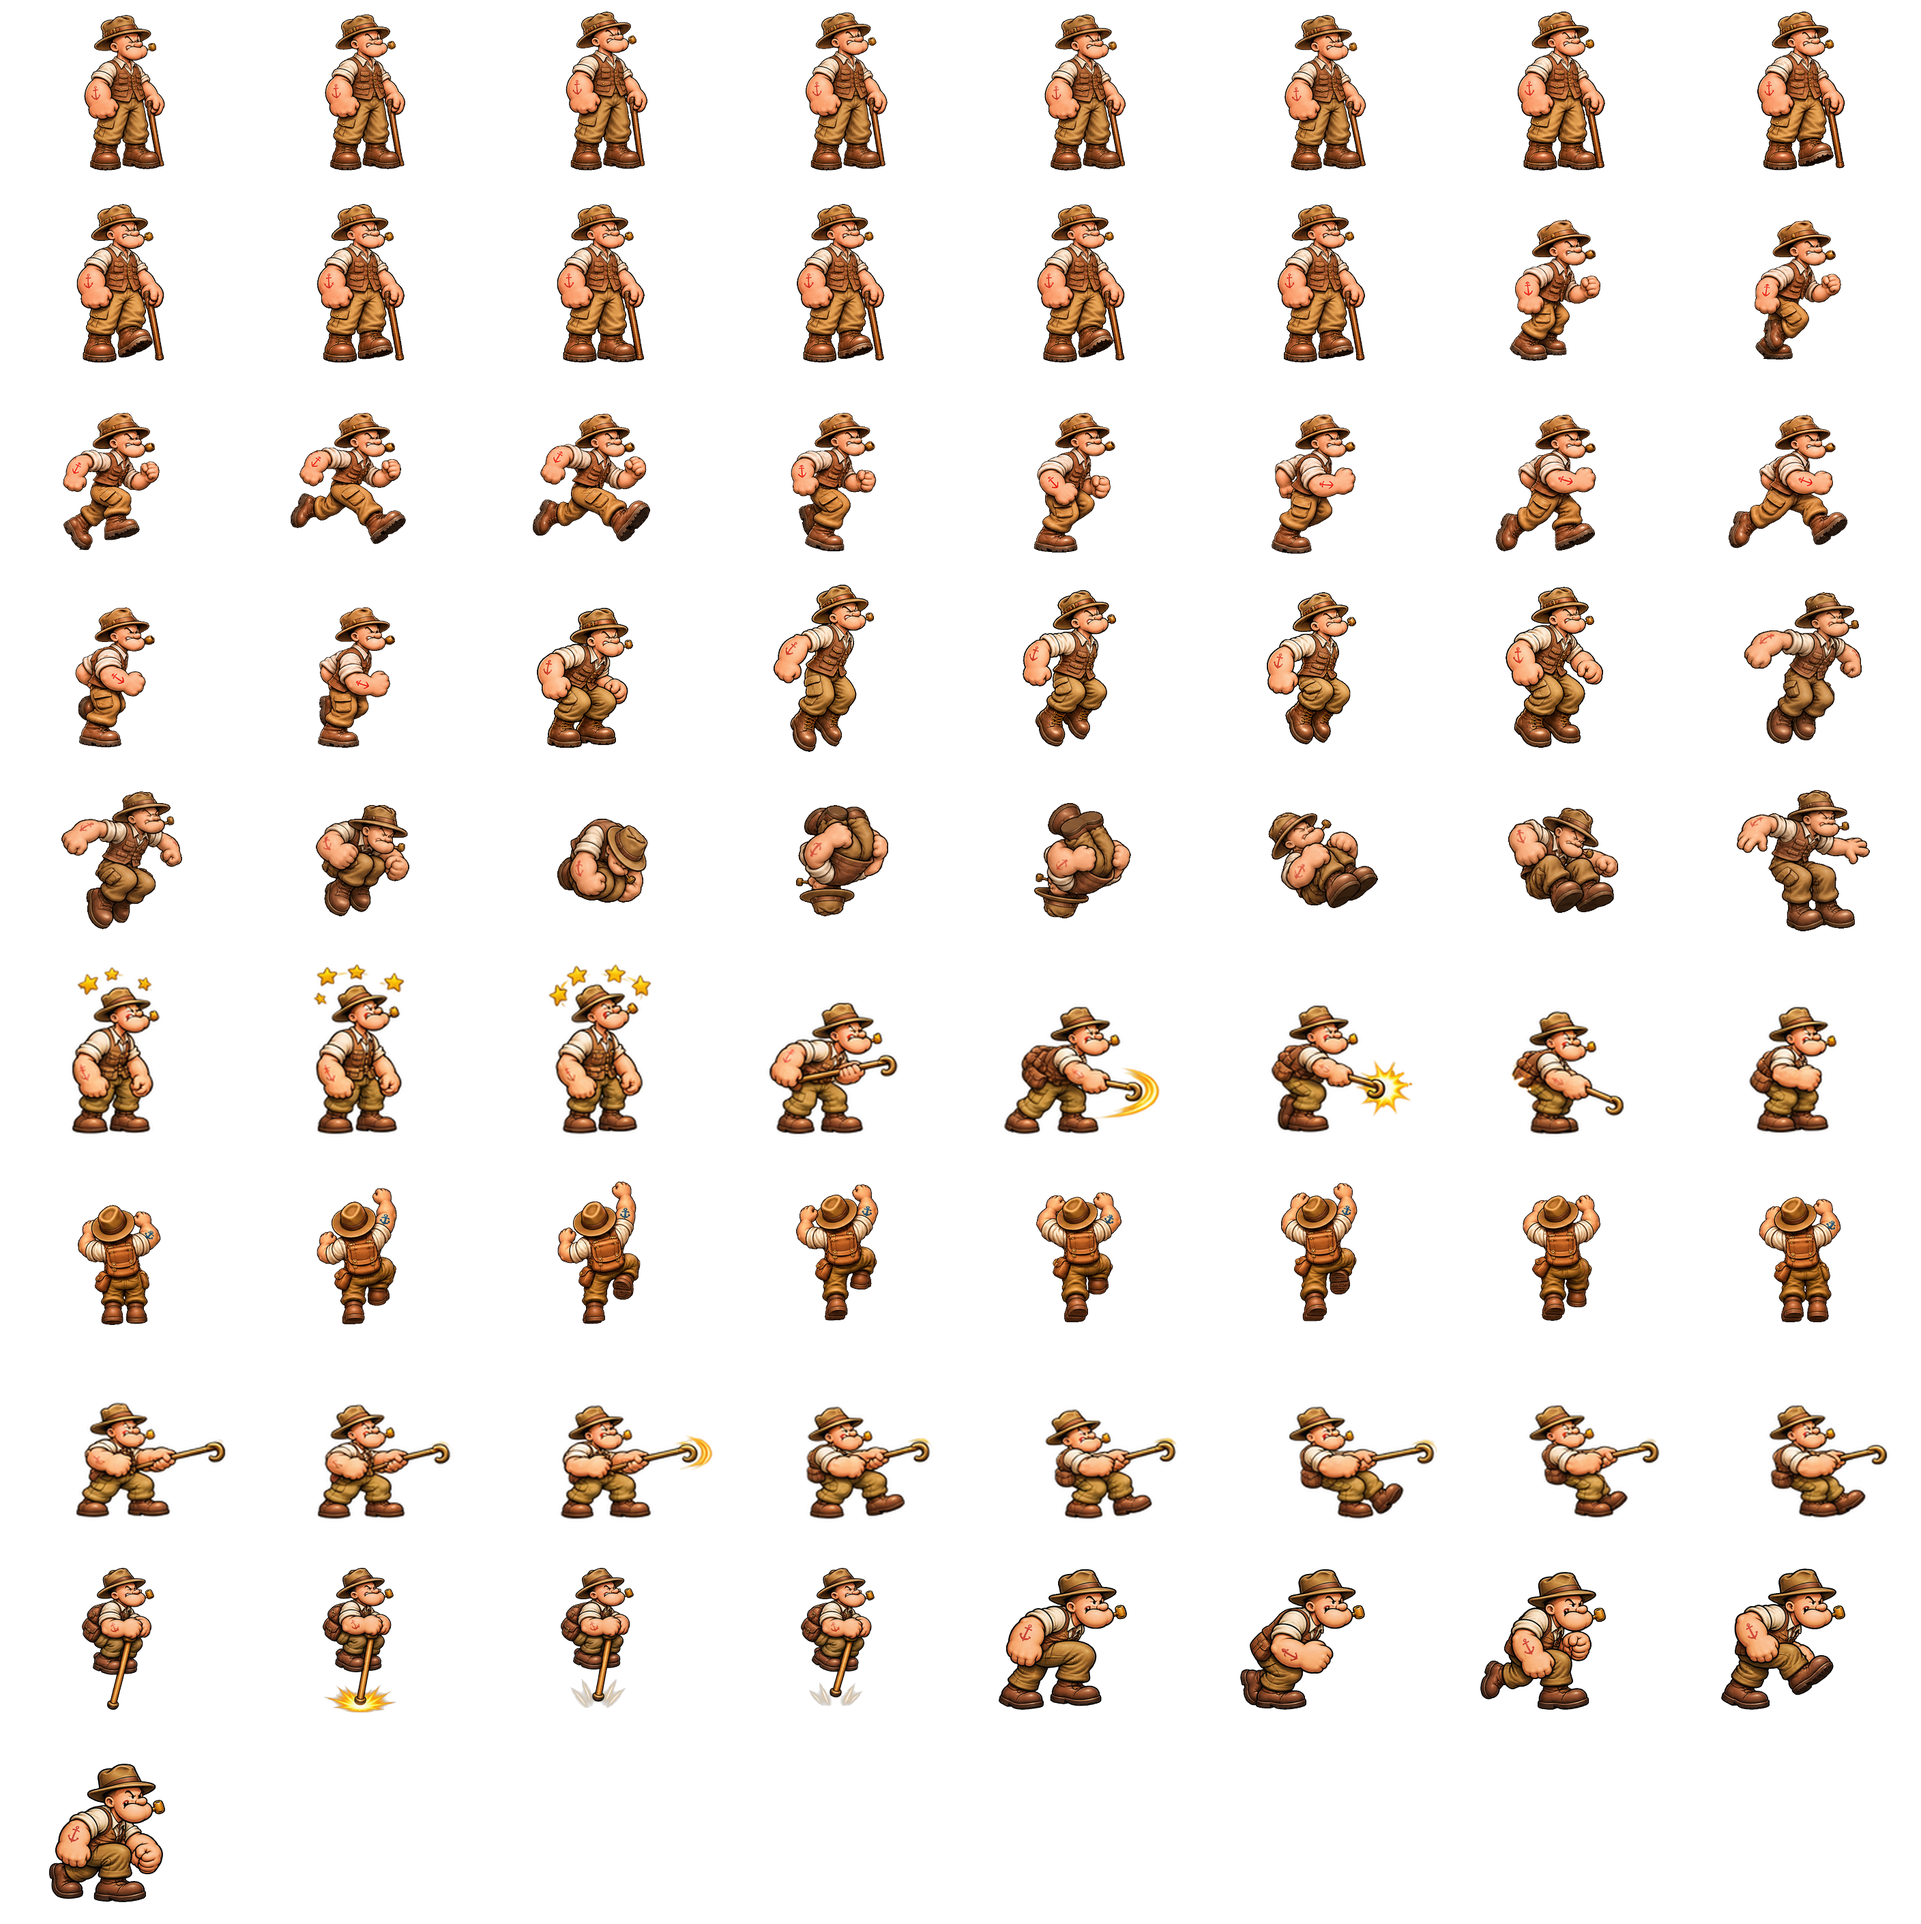
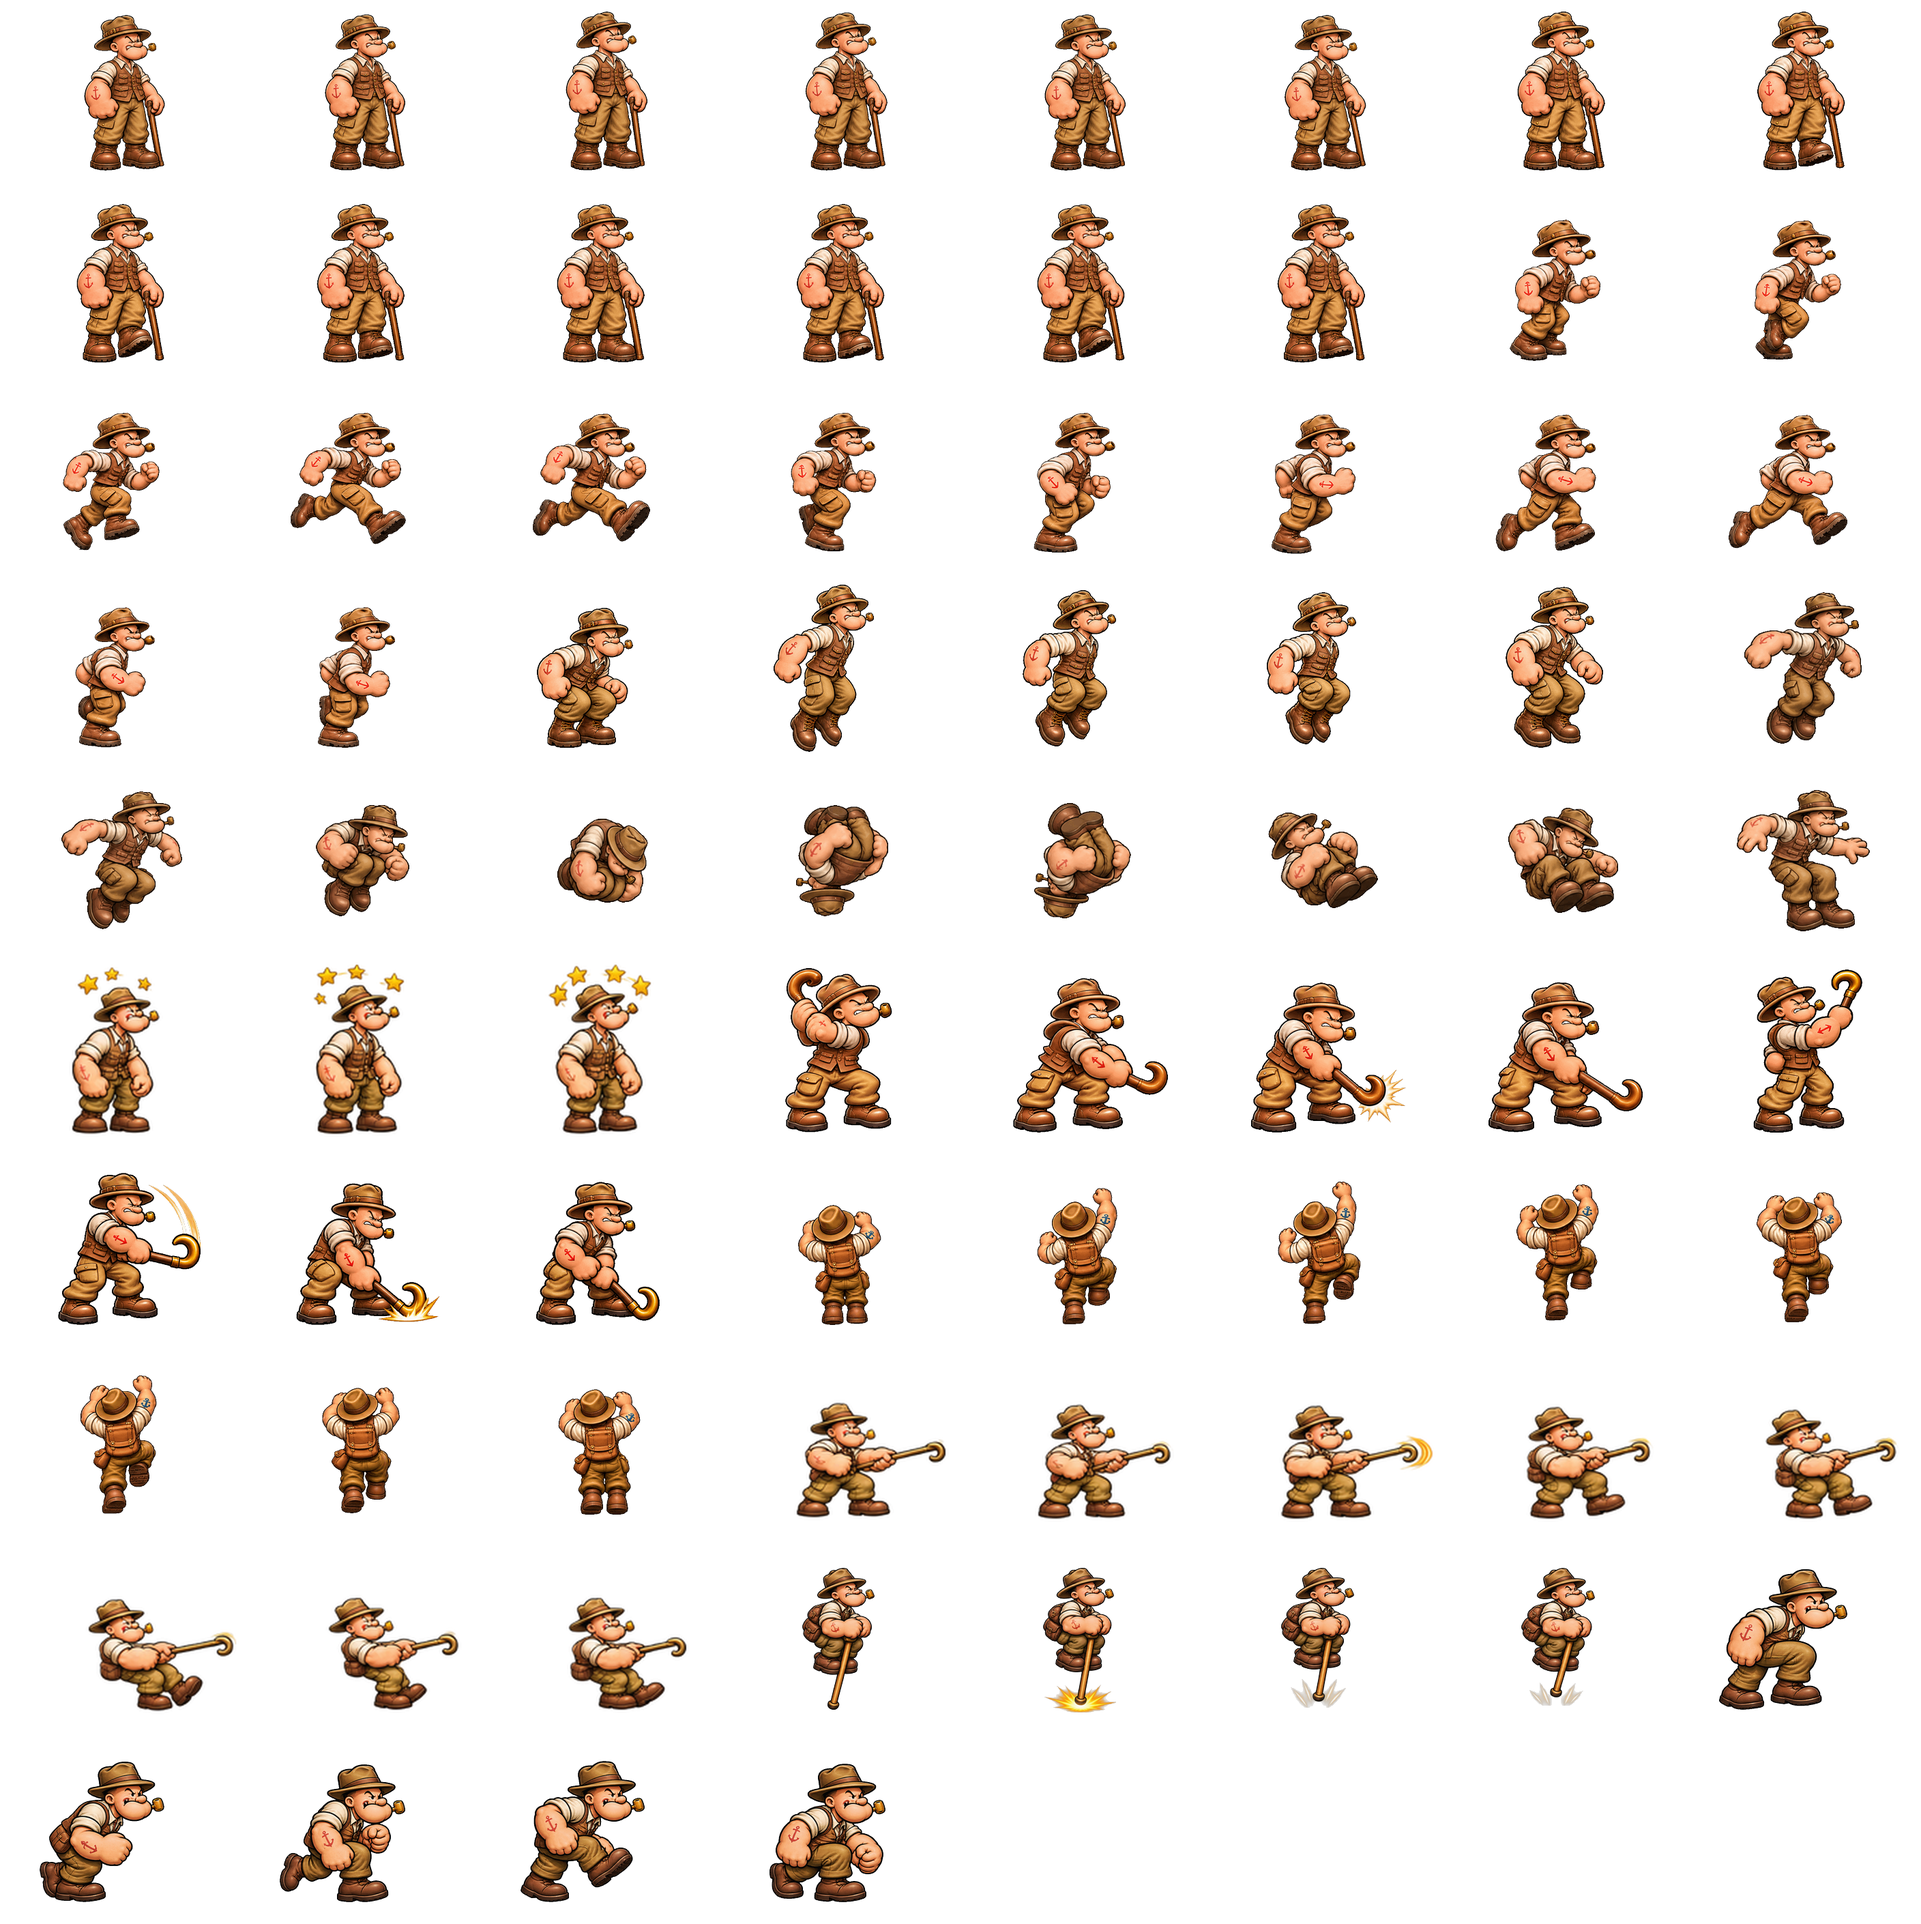
v0.80: iki yeni baston vuruşu sırayla (bekleme kareleri hariç)
Claude-Session: https://claude.ai/code/session_015fAnPKUucX6WRC71BPvNkG

diff --git a/js/veri/assetlar.js b/js/veri/assetlar.js
@@ -28,4 +28,4 @@ ASSETLER.kirParca = {"huc": 64, "sutun": 3, "sayi": [2, 1, 2, 2, 3, 2, 2, 2, 2, 
 // Düşman sayfaları (araclar/dusmanKes.py ile üretildi): hücre w×h, ayak çizgisi, görünür boy (oyun px), animasyon kareleri
 ASSETLER.dusman = {"gul": {"w": 140, "h": 107, "ayak": 106, "ust": 0, "boy": 36, "anim": {"yuru": [0, 1, 2, 3, 4, 5], "ol": [6, 7, 8, 9]}}, "yilan": {"w": 160, "h": 73, "ayak": 73, "ust": 9, "boy": 22, "anim": {"yuru": [0, 1, 2, 3, 4, 5], "ol": [6, 7, 8, 9]}}, "yuvarlak": {"w": 131, "h": 95, "ayak": 95, "ust": 2, "boy": 32, "anim": {"yuru": [0, 1, 2, 3, 4, 5], "ol": [6, 7, 8, 9]}}, "ari": {"w": 164, "h": 93, "ayak": 90, "ust": 0, "boy": 30, "anim": {"uc": [0, 1, 2, 3], "ol": [4, 5, 6, 7]}}, "orumcek": {"w": 161, "h": 110, "ayak": 104, "ust": 0, "boy": 34, "anim": {"bekle": [0, 1], "ol": [2, 3, 4, 5]}}, "maymun": {"w": 122, "h": 109, "ayak": 109, "ust": 1, "boy": 38, "anim": {"yuru": [0, 1, 2, 3, 4, 5], "dur": [0], "at": [6, 7, 8, 9, 10], "ol": [11, 12, 13]}}, "atesTopu": {"w": 96, "h": 60, "gen": 22}, "kopek": {"w": 146, "h": 113, "ayak": 113, "ust": 5, "boy": 40, "anim": {"yuru": [0, 1, 2, 3, 4, 5], "at": [6, 7, 8, 9], "ol": [10, 11]}}, "mizrak": {"w": 132, "h": 39, "gen": 26}, "boss": {"w": 190, "h": 181, "ayak": 181, "ust": 0, "boy": 84, "anim": {"yuru": [0, 1, 2, 3], "saldir": [4, 5, 6, 7], "ol": [8, 9]}}, "kedi": {"w": 188, "h": 154, "ayak": 154, "ust": 0, "boy": 46, "anim": {"yuru": [0, 1, 2, 3, 4, 5], "saldir": [6, 7, 8], "dur": [9], "ol": [6]}}, "domuz": {"w": 187, "h": 213, "ayak": 213, "ust": 38, "boy": 58, "anim": {"yuru": [0, 1, 2, 3, 4, 5], "saldir": [6, 7, 8], "dur": [9], "ol": [7]}}, "dalga": {"w": 115, "h": 104, "gen": 30}, "yarasa": {"w": 202, "h": 307, "ayak": 192, "ust": 28, "boy": 40, "anim": {"uc": [0, 1, 2, 3, 4, 5], "saldir": [6, 7, 8], "ol": [8]}}, "golem": {"w": 236, "h": 239, "ayak": 239, "ust": 4, "boy": 62, "anim": {"yuru": [0, 1, 2, 3, 4, 5], "saldir": [6, 7, 8, 9], "dur": [0], "ol": [7]}}, "zehir": {"w": 116, "h": 58, "gen": 26}, "bitki": {"w": 240, "h": 180, "ayak": 179, "ust": 2, "boy": 50, "anim": {"bekle": [0, 1, 2, 3, 4, 5], "at": [6, 7, 8, 9], "ol": [8]}}, "fici": {"w": 184, "h": 168, "ayak": 168, "ust": 0, "boy": 38, "anim": {"yuru": [0, 1, 2, 3, 4], "hazir": [5], "top": [6], "ol": [5]}}, "buyu": {"w": 145, "h": 96, "gen": 34}, "buyucu": {"w": 238, "h": 221, "ayak": 221, "ust": 3, "boy": 44, "anim": {"yuru": [0, 1, 2, 3], "buyu": [4, 5, 6, 7, 8], "dur": [4], "ol": [6]}}, "ok": {"w": 54, "h": 34, "gen": 24}, "kertenkele": {"w": 189, "h": 162, "ayak": 162, "ust": 0, "boy": 40, "anim": {"yuru": [0, 1, 2, 3, 4, 5], "at": [6, 7, 8], "dur": [9], "ol": [8]}}};
 // Oyuncu kareleri (araclar/oyuncuYeni.py): hücre ve animasyon → kare numaraları (assets/oyuncu/oyuncu.png)
-ASSETLER.oyuncu = {"kare": {"w": 352, "h": 282, "ayakY": 250, "ayakBoy": 234}, "anim": {"dur": [0, 1, 2, 3, 4, 5], "ayakVur": [6, 7, 8, 9, 10, 11, 12, 13], "kos": [14, 15, 16, 17, 18, 19, 20, 21, 22, 23, 24, 25], "zipla": [26, 27, 28], "dus": [29], "in": [30], "takla": [31, 32, 33, 34, 35, 36, 37, 38, 39], "sersem": [40, 41, 42], "vur": [43, 44, 45, 46, 47], "tirman": [48, 49, 50, 51, 52, 53, 54, 55], "uzat": [56, 57, 58], "cek": [59, 60, 61, 62, 63], "pogoHava": [64], "pogoSek": [65, 66, 67], "egil": [68, 69, 70, 71, 72]}};
+ASSETLER.oyuncu = {"kare": {"w": 352, "h": 282, "ayakY": 250, "ayakBoy": 234}, "anim": {"dur": [0, 1, 2, 3, 4, 5], "ayakVur": [6, 7, 8, 9, 10, 11, 12, 13], "kos": [14, 15, 16, 17, 18, 19, 20, 21, 22, 23, 24, 25], "zipla": [26, 27, 28], "dus": [29], "in": [30], "takla": [31, 32, 33, 34, 35, 36, 37, 38, 39], "sersem": [40, 41, 42], "vur": [43, 44, 45, 46], "vur2": [47, 48, 49, 50], "tirman": [51, 52, 53, 54, 55, 56, 57, 58], "uzat": [59, 60, 61], "cek": [62, 63, 64, 65, 66], "pogoHava": [67], "pogoSek": [68, 69, 70], "egil": [71, 72, 73, 74, 75]}};

diff --git a/js/sistemler/oyuncu.js b/js/sistemler/oyuncu.js
@@ -171,6 +171,8 @@ Object.assign(OyunSahnesi.prototype, {
     // Baston vuruşu (yerde ve havada)
     if (k.saldirBas && this.saldiriBekleme <= 0 && !cekiyor && !this.pogoModu) {
       this.ses('bastonSalla');
+      this.vurNo = this.vurNo === 'vur' ? 'vur2' : 'vur';   // iki vuruş sırayla
+      this.player.anims.stop();
       this.saldiriZaman = CONFIG.oyuncu.saldiriSure;
       this.saldiriBekleme = CONFIG.oyuncu.saldiriBekleme;
       this.vurulan = new Set();
@@ -491,7 +493,7 @@ Object.assign(OyunSahnesi.prototype, {
     else if (this.tirmaniyor) { a = 'tirman'; durdur = b.velocity.y === 0; }
     else if (this.cekDurum === 'uzat') a = 'uzat';
     else if (this.cekDurum === 'cek') { a = 'cek'; durdur = b.velocity.x === 0; }
-    else if (this.saldiriZaman > 0) a = 'vur';
+    else if (this.saldiriZaman > 0) a = this.vurNo || 'vur';
     else if (this.pogoModu && (!yerde || this.pogoSekZaman > 0)) a = this.pogoSekZaman > 0 ? 'pogoSek' : 'pogoHava';
     else if (!yerde && this.taklaZaman > 0) a = 'takla';
     else if (!yerde && !this.egik) a = b.velocity.y < 0 ? 'zipla' : 'dus';

diff --git a/js/ayarlar.js b/js/ayarlar.js
@@ -1,6 +1,6 @@
 // Popeye Tales (Atari) — oyun ayarları. Tüm uzunluklar dünya pikseli (1 karo = 32 px), süreler saniye.
 const CONFIG = {
-  surum: 'v0.79',
+  surum: 'v0.80',
   bayrakBoy: 57.6,      // kontrol noktası bayrağının boyu
   ustUsteGomme: 4,
   tasYukari: 3,         // kırılır taşlar (kasa hariç) yerde bu kadar yukarıda çizilir (bölümde tasZeminYukari varsa o)
@@ -38,7 +38,7 @@ const CONFIG = {
     govdeEgik: 26,      // eğikken gövde yüksekliği — 1 karelik aralıktan eğilerek geçilir
     // animasyona göre görsel ölçek (yoksa 1)
     animOlcek: {
-      tirman: 1.3, uzat: 1.16, cek: 1.16, egil: 0.84, pogoHava: 1.2, pogoSek: 1.2, vur: 1.1,
+      tirman: 1.3, uzat: 1.16, cek: 1.16, egil: 0.84, pogoHava: 1.2, pogoSek: 1.2, vur: 1.1, vur2: 1.1,
       asili: 0.7, it: 0.77, h_tirman: 0.7, h_egil: 0.7, h_hava: 0.7, h_cek: 0.7, h_it: 0.7, h_asili: 0.7, olum: 0.7
     },
     dokunulmaz: 1.5,    // hasar sonrası

diff --git a/js/sahneler/BootSahnesi.js b/js/sahneler/BootSahnesi.js
@@ -66,7 +66,8 @@ class BootSahnesi extends Phaser.Scene {
       ['takla',    OA.takla,    17, 0],   // çift zıplamada havada dönüş
       ['in',       OA.in,       1,  0],   // yere iniş (toz)
       ['sersem',   OA.sersem,   10, -1],  // yerde ayaktayken hasar
-      ['vur',      OA.vur,      22, 0],   // baston vuruşu
+      ['vur',      OA.vur,      17, 0],   // baston vuruşu 1 (vur1.gif)
+      ['vur2',     OA.vur2,     17, 0],   // baston vuruşu 2 (vur2.gif) — sırayla
       ['tirman',   OA.tirman,   8,  -1],
       ['uzat',     OA.uzat,     14, 0],   // baston kancası uzatma
       ['cek',      OA.cek,      10, -1],

diff --git a/araclar/oyuncuYeni.py b/araclar/oyuncuYeni.py
@@ -147,9 +147,15 @@ tk = gifKare('oyuncu_takla.gif')   # 3–11 havada dönüş
 print('takla', ekle([tk[0]] + tk[3:12], [101] + list(range(102, 111)), True, ortadan=True))
 bosalt(101)
 for i in range(10, 15): bosalt(i)
+# v0.80: iki baston vuruşu (oyuncu_vur1.gif, oyuncu_vur2.gif) sırayla; bekleme kareleri (ilk 3 ve sonuncu) alınmaz.
+# Ölçek: ilk karedeki (ayakta) boy = duruş boyu; hiza: ilk karenin şapka ortası, ayaklar ayak çizgisinde.
+for n, ad in enumerate(['oyuncu_vur1.gif', 'oyuncu_vur2.gif']):
+    v = gif(ad); y0, y1, _, _ = kutu(v[0]); o = durBoy / (y1 - y0 + 1); hx = sapka(v[0])
+    for k, a in enumerate(v[3:7]): koy(111 + n * 4 + k, a, o, hx, kutu(a)[1])
+for i in range(24, 29): bosalt(i)
 # Sıkıştır: sadece kullanılan kareler, animasyon sırasıyla 8 sütunlu sayfaya; kare listesi ASSETLER.oyuncu'ya
 ANIM = {'dur': range(60, 66), 'ayakVur': range(74, 82), 'kos': range(82, 94), 'zipla': [95, 96, 97], 'dus': [98], 'in': [100], 'takla': range(102, 111),
-        'sersem': [15, 16, 17], 'vur': range(24, 29), 'tirman': range(66, 74), 'uzat': [41, 42, 43], 'cek': range(44, 49),
+        'sersem': [15, 16, 17], 'vur': range(111, 115), 'vur2': range(115, 119), 'tirman': range(66, 74), 'uzat': [41, 42, 43], 'cek': range(44, 49),
         'pogoHava': [49], 'pogoSek': [50, 51, 52], 'egil': range(53, 58)}
 S2 = 8; sira = [i for v in ANIM.values() for i in v]; yeniNo = {}
 sayfa = np.zeros((H * (-(-len(sira) // S2)), W * S2, 4), np.uint8)
